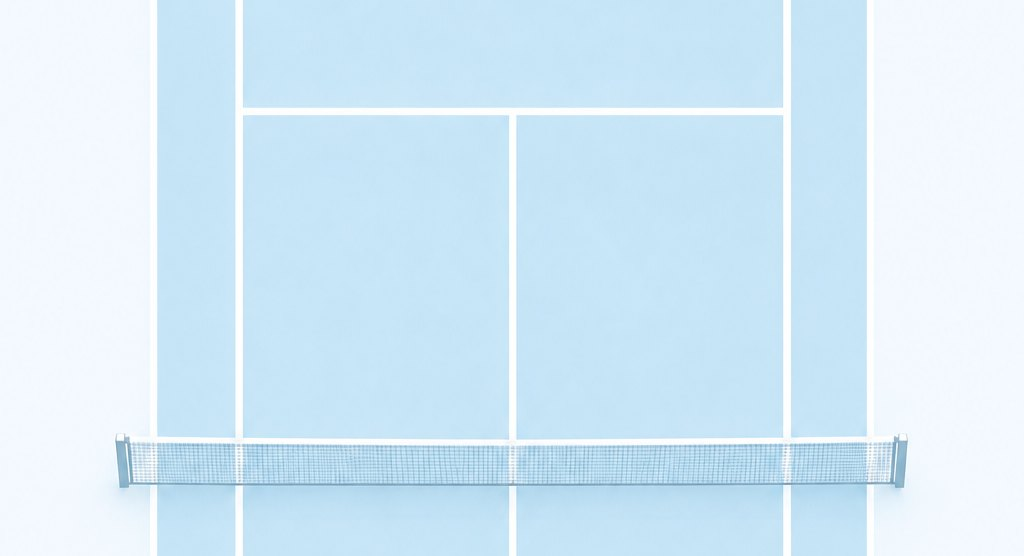
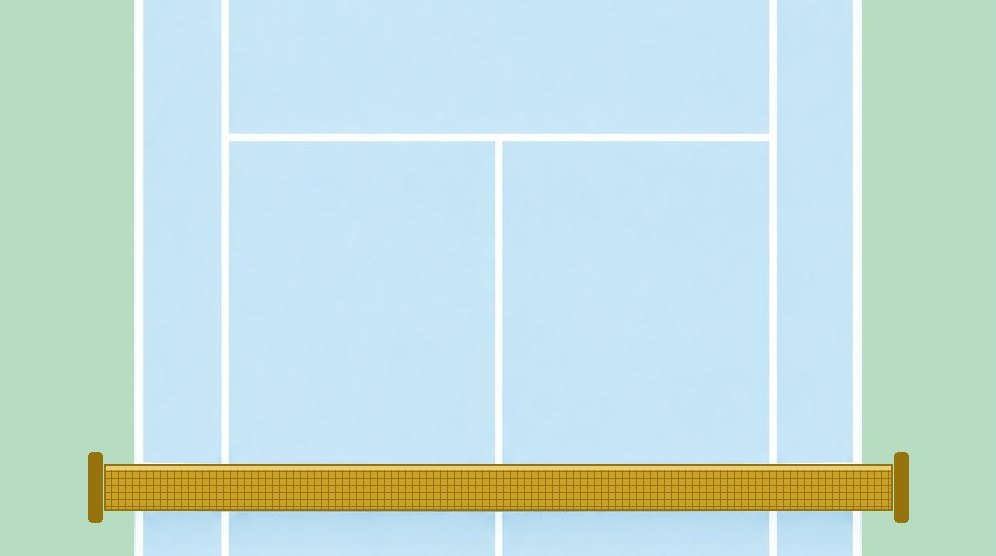
Court: portrait court with a horizontal gold net everywhere; no vertical net
Tara's correction (Nov 22 2026): the net runs across the court. New
court-portrait.jpg (her court photo, gold net + posts across the middle, soft
green surround, thin navy border, rounded corners) is the one court image:
whole courts centred in each margin from 1536px, the row of upright courts at
1000-1535px, the faded court on phones and the public home page. The home hero
(court-net.jpg) is a wide crop of the same portrait court, net near the bottom.
Deleted the sideways court-wide.jpg / court-side-gold.jpg and the old
white-net court-tall.jpg.

Claude-Session: https://claude.ai/code/session_017fWwP9fBSC69JGst7szULt

diff --git a/app/assets/stylesheets/application.css b/app/assets/stylesheets/application.css
@@ -6688,7 +6688,7 @@ body.cr-ctx-matches-edit_results .cr-result-option:has(input:checked) .cr-result
 .cr-has-sb .cr-shell-main::before {
   content: ""; position: fixed; z-index: -1; pointer-events: none;
   inset: var(--cr-hh) 0 0 0;
-  background: url("/court-tall.jpg") center 58% / contain no-repeat;   /* the court stands up and down (Tara) */
+  background: url("/court-portrait.jpg") center 58% / contain no-repeat;   /* the court stands up and down, net across (Tara) */
   opacity: 0.2;
 }
 @media (min-width: 1000px) {
@@ -7598,37 +7598,24 @@ html body .cr-sheet-entered { opacity: 1; font-weight: 600; }
   html body .cr-sheet-line-head { flex-wrap: wrap; }
 }
 
-/* Court in the margins, gold net up and down (Tara's list #9/#29, Nov 22 2026).
-   On computers each margin shows a SIDEWAYS court (court-side-gold.jpg, the court
-   photo with its net drawn in gold), full height, placed so its net stands up and
-   down the middle of that margin. The column band (::after) still covers the
-   middle, so the court is only ever in the margins, never behind data.
-   H = the layer's height; the photo is 1.5 H wide with its net at 48.7% across.
-   Only from 1536px wide: narrower screens have ~30px margins, where the net
-   would fill the whole margin as a gold bar, so they keep the faded courts. */
+/* Court in the margins (Tara, Nov 22 2026, LOCKED): the court stands up and down
+   (portrait) and its GOLD net runs ACROSS it, horizontally, with gold posts —
+   never a vertical net anywhere. court-portrait.jpg: Tara's court photo with a
+   gold net + posts, soft green surround, thin navy border, rounded corners.
+   ≥1536px: one WHOLE court in each margin, centred in it. 1000–1535px (margins
+   only ~30px): the row of whole upright courts from #328 (repeat-x) shows at the
+   edges, so the margins still read as court with the net running across. */
 @media (min-width: 1536px) and (min-aspect-ratio: 1/1) {
   .cr-has-sb .cr-shell-main::before {
-    --cr-court-h: calc(100vh - var(--cr-hh) - 60px);
-    --cr-margin-mid: calc((100vw - var(--cr-sb-w) - var(--cr-col) - 48px) / 4);
-    background-image: url("/court-side-gold.jpg"), url("/court-side-gold.jpg");
-    background-size: auto 100%, auto 100%;
+    --cr-margin: calc((100vw - var(--cr-sb-w) - var(--cr-col) - 48px) / 2);
+    --cr-court-w: min(calc(var(--cr-margin) - 56px), calc((100vh - var(--cr-hh) - 120px) / 1.5));
+    background-image: url("/court-portrait.jpg"), url("/court-portrait.jpg");
+    background-size: var(--cr-court-w) auto, var(--cr-court-w) auto;
     background-repeat: no-repeat, no-repeat;
     background-position:
-      calc(var(--cr-margin-mid) - var(--cr-court-h) * 0.73) top,
-      calc(100vw - var(--cr-sb-w) - var(--cr-margin-mid) - var(--cr-court-h) * 0.73) top;
-    opacity: 0.55;
-  }
-}
-/* 1000–1535px wide: margins are too thin for a whole net, so one sideways court
-   is centered on the page — its net sits behind the column and the thin margins
-   show court lines only, never the old horizontal net (Tara's list #29). */
-@media (min-width: 1000px) and (max-width: 1535px) and (min-aspect-ratio: 1/1) {
-  .cr-has-sb .cr-shell-main::before {
-    background-image: url("/court-side-gold.jpg");
-    background-size: auto 100%;
-    background-repeat: no-repeat;
-    background-position: center top;
-    opacity: 0.45;
+      calc(var(--cr-margin) / 2 - var(--cr-court-w) / 2) center,
+      calc(100vw - var(--cr-sb-w) - var(--cr-margin) / 2 - var(--cr-court-w) / 2) center;
+    opacity: 0.6;
   }
 }
 
@@ -7646,7 +7633,7 @@ html body .cr-sheet-entered { opacity: 1; font-weight: 600; }
      Type      Fraunces headings, clean sans body
    NO GOLD anywhere on the site (#C9A227, #E3C84F and #D9C08A were all tried
    and rejected). Only exceptions, separate assets: the logo ball, the bouncing
-   ball, and the gold net in the court image (court-side-gold.jpg).
+   ball, and the gold net in the court image (court-portrait.jpg).
    ═══════════════════════════════════════════════════════════════════════ */
 :root {
   --cr-btn-blue: #3F6C8A; --cr-btn-blue-hover: #335A74;

diff --git a/CLAUDE.md b/CLAUDE.md
@@ -242,6 +242,17 @@ DESIGN SYSTEM notes below, or an older prompt) contradicts this, THIS wins. Live
 - Check for regressions with a computed-style scan (a Playwright script flagging gold-ish colours and navy-filled
   buttons on every page) rather than grepping CSS: old rules are overridden, not deleted.
 
+## LOCKED COURT — portrait court, HORIZONTAL gold net (Tara's correction, Nov 22 2026) — supersedes #9/#29 and #340
+
+The net runs ACROSS the width of the court. On this site the court stands portrait (tall) with the net HORIZONTAL across
+the middle and gold posts at each end. **Never a vertical net anywhere** (the Nov 22 morning "vertical gold net" from list
+items #9/#29, PR #340, was wrong and is gone). One image: `app/assets/images/court-portrait.jpg` (Tara's court photo: pale
+blue court, white lines, gold net + posts, soft green surround, thin navy border, rounded corners). `court-net.jpg` (public
+home hero) is a WIDE CROP of that same portrait court with the net near the bottom — wide slots are cropped, never rotated.
+The sideways images (`court-wide.jpg`, `court-side-gold.jpg`) and the old white-net `court-tall.jpg` were deleted.
+Margins: ≥1536px one whole court per margin, centred; 1000–1535px the #328 repeat-x row (thin margins show the net's ends,
+horizontal); phones: one faded court behind the page.
+
 ## Current Status (as of Nov 17, 2026 — PRs #302–#308: "numbers that contradict each other" + player profiles)
 
 Tara sent numbered priority lists (Priority 1 = numbers that contradict each other, items 1–6; Priority 2 = player
